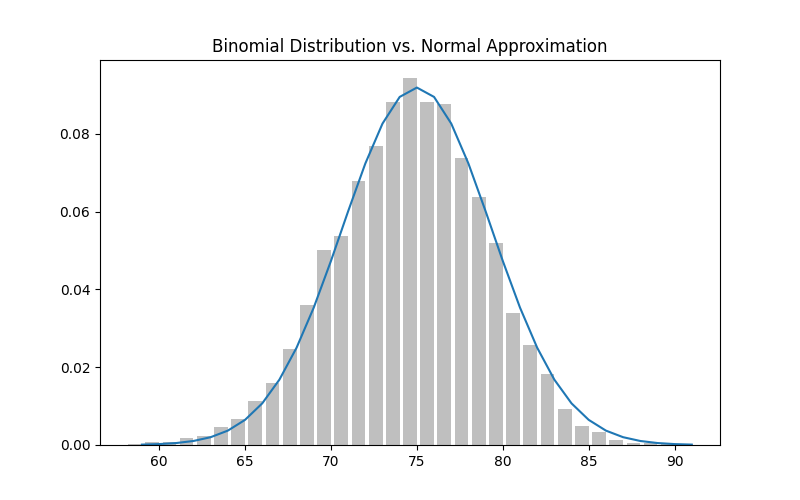
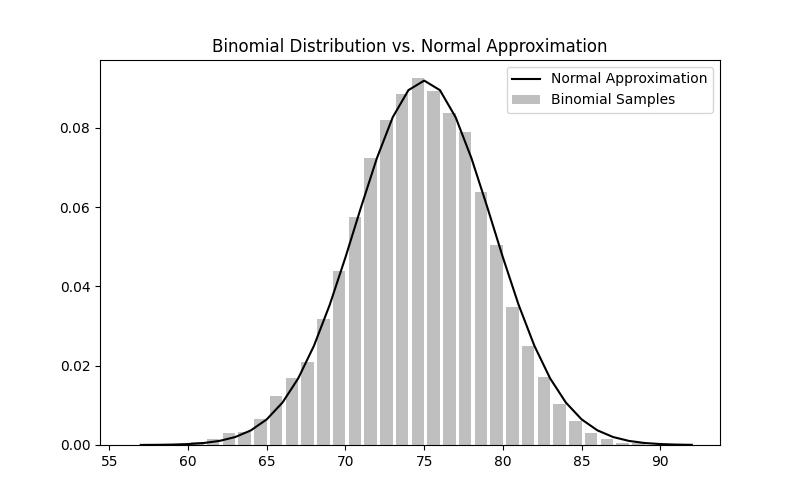
test_0607_central_limit_theorm.py

diff --git a/src/data-scratch-matplotlib/data_plots_from_scratch/c06_probability/e0607_central_limit_theorm.py b/src/data-scratch-matplotlib/data_plots_from_scratch/c06_probability/e0607_central_limit_theorm.py
@@ -1,6 +1,7 @@
 import math
 from collections import Counter
 from dataclasses import dataclass
+from typing import List
 
 from matplotlib import pyplot as plt
 
@@ -11,41 +12,44 @@ from dsl.c06_probability.e0604_binom import binomial
 
 @dataclass
 class ApproximateNormalHistogram:
-    bar_x: list[float]
-    bar_y: list[float]
-    plot_xs: list[int]
-    plot_ys: list[float]
+    bar_x: List[float]
+    bar_y: List[float]
+    plot_xs: List[int]
+    plot_ys: List[float]
 
     @classmethod
-    def generate_binomial_data(cls, p: float, n: int, num_points: int):
+    def generate_binomial_data(cls, p: float, n: int, num_points: int) -> "ApproximateNormalHistogram":
+        """Generates binomial sample data and normal approximation"""
         data = [binomial(n, p) for _ in range(num_points)]
-        # use a bar chart to show the actual binomial samples
+
+        # Binomial sample histogram
         histogram = Counter(data)
         bar_x = [x - 0.4 for x in histogram.keys()]
         bar_y = [v / num_points for v in histogram.values()]
+
+        # Normal approximation
         mu = p * n
         sigma = math.sqrt(n * p * (1 - p))
-        # use a line chart to show the normal approximation
         plot_xs = list(range(min(data), max(data) + 1))
-        plot_ys = [normal_cdf(i + 0.5, mu, sigma) - normal_cdf(i - 0.5, mu, sigma) for i in plot_xs]
-        return cls(
-            bar_x=bar_x,
-            bar_y=bar_y,
-            plot_xs=plot_xs,
-            plot_ys=plot_ys
+        plot_ys = [
+            normal_cdf(i + 0.5, mu, sigma) - normal_cdf(i - 0.5, mu, sigma) for i in plot_xs
+        ]
 
-        )
+        return cls(bar_x=bar_x, bar_y=bar_y, plot_xs=plot_xs, plot_ys=plot_ys)
 
-    def binomial_histogram(self) -> None:
-        """Picks points from a Binomial(n, p) and plots their histogram"""
-
+    def binomial_histogram(self, save_path: str) -> None:
+        """Plots binomial samples and normal approximation, and saves the plot."""
         fig, ax = initialize_plot()
-        ax.bar(self.bar_x, self.bar_y, 0.8, color='0.75')
-        ax.plot(self.plot_xs, self.plot_ys)
+        ax.bar(self.bar_x, self.bar_y, width=0.8, color='0.75', label="Binomial Samples")
+        ax.plot(self.plot_xs, self.plot_ys, color='black', label="Normal Approximation")
         ax.set_title("Binomial Distribution vs. Normal Approximation")
+        ax.legend()
+
+        # Save plot
+        plt.savefig(save_path)
+        plt.close(fig)
 
 
 if __name__ == "__main__":
     data = ApproximateNormalHistogram.generate_binomial_data(0.75, 100, 10000)
-    data.binomial_histogram()
-    plt.savefig("e0607_binomial_approximate_normal.png")
+    data.binomial_histogram("e0607_binomial_approximate_normal.png")

diff --git a/src/data-scratch-matplotlib/tests/test_0607_central_limit_theorm.py b/src/data-scratch-matplotlib/tests/test_0607_central_limit_theorm.py
@@ -1,0 +1,61 @@
+import math
+
+import pytest
+from matplotlib import pyplot as plt
+
+from data_plots_from_scratch.c06_probability.e0607_central_limit_theorm import ApproximateNormalHistogram
+from dsl.c06_probability.e0603_normal import normal_cdf
+
+
+@pytest.fixture
+def mock_data():
+    """Fixture to generate a small set of binomial data for testing."""
+    return ApproximateNormalHistogram.generate_binomial_data(0.5, 10, 1000)
+
+
+def test_generate_binomial_data_length(mock_data):
+    """Test that the lengths of the bar_x and bar_y match the number of unique data points."""
+    assert len(mock_data.bar_x) == len(mock_data.bar_y)
+    assert len(mock_data.plot_xs) == len(mock_data.plot_ys)
+
+
+def test_generate_binomial_data_normal_approximation(mock_data):
+    """Test that the generated normal approximation is valid."""
+    mu = 0.5 * 10
+    sigma = math.sqrt(10 * 0.5 * (1 - 0.5))
+
+    for i, (plot_x, plot_y) in enumerate(zip(mock_data.plot_xs, mock_data.plot_ys)):
+        normal_prob = normal_cdf(plot_x + 0.5, mu, sigma) - normal_cdf(plot_x - 0.5, mu, sigma)
+        assert math.isclose(plot_y, normal_prob, rel_tol=1e-2), f"Mismatch at index {i}"
+
+
+def test_histogram_plot_creation(mock_data, tmpdir):
+    """Test that the plot is created and saved correctly."""
+    save_path = tmpdir.join("test_binomial_histogram.png")
+
+    # Run the method that generates and saves the plot
+    mock_data.binomial_histogram(save_path)
+
+    # Check that the plot was saved
+    assert save_path.check(), "Plot was not saved correctly."
+
+
+def test_plot_closes_after_creation(mock_data, tmpdir):
+    """Test that the plot is closed properly after being saved."""
+    save_path = tmpdir.join("test_closing_plot.png")
+
+    # Count the number of open figures before the plot is created
+    before_plot_count = plt.get_fignums()
+
+    # Run the method that generates and saves the plot
+    mock_data.binomial_histogram(save_path)
+
+    # Count the number of open figures after the plot
+    after_plot_count = plt.get_fignums()
+
+    # Ensure that no additional figures remain open
+    assert len(after_plot_count) == len(before_plot_count), "Figure was not closed properly."
+
+
+if __name__ == "__main__":
+    pytest.main()

diff --git a/src/data-scratch-matplotlib/data_plots_from_scratch/c03_visualizing_data/charts.py b/src/data-scratch-matplotlib/data_plots_from_scratch/c03_visualizing_data/charts.py
@@ -13,13 +13,10 @@ from dsl.c04_linear_algebra.e0401_vectors import (
 from dsl.c04_linear_algebra.e0402_matrices import (
     get_column,
     shape)
-from dsl.c05_statistics.stats import make_histogram
+from dsl.c10_working_with_data.working_with_data import make_histogram
 from dsl.c06_probability.probability import (
-    normal_pdf,
-    normal_cdf,
-    inverse_normal_cdf,
-    binomial, random_normal,
-)
+    binomial, )
+from dsl.c06_probability.e0603_normal import random_normal, normal_pdf, normal_cdf, inverse_normal_cdf
 from dsl.c08_gradient_descent.gradient_descent import difference_quotient
 from dsl.c12_k_nearest_neighbors.nearest_neighbors import cities
 from dsl.c12_k_nearest_neighbors.nearest_neighbors import knn_classify
